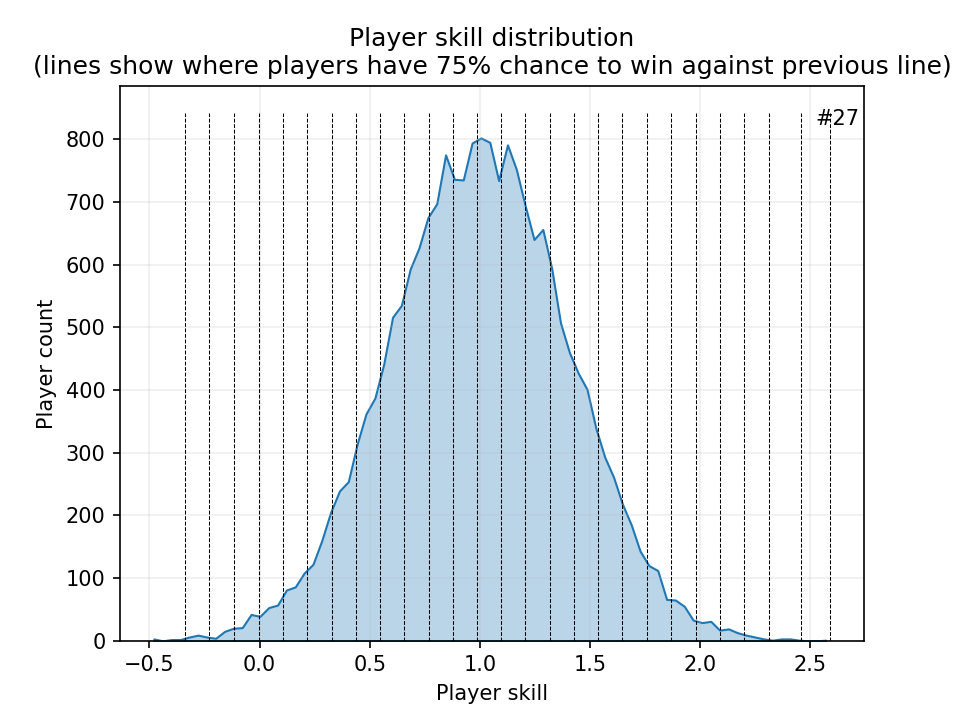
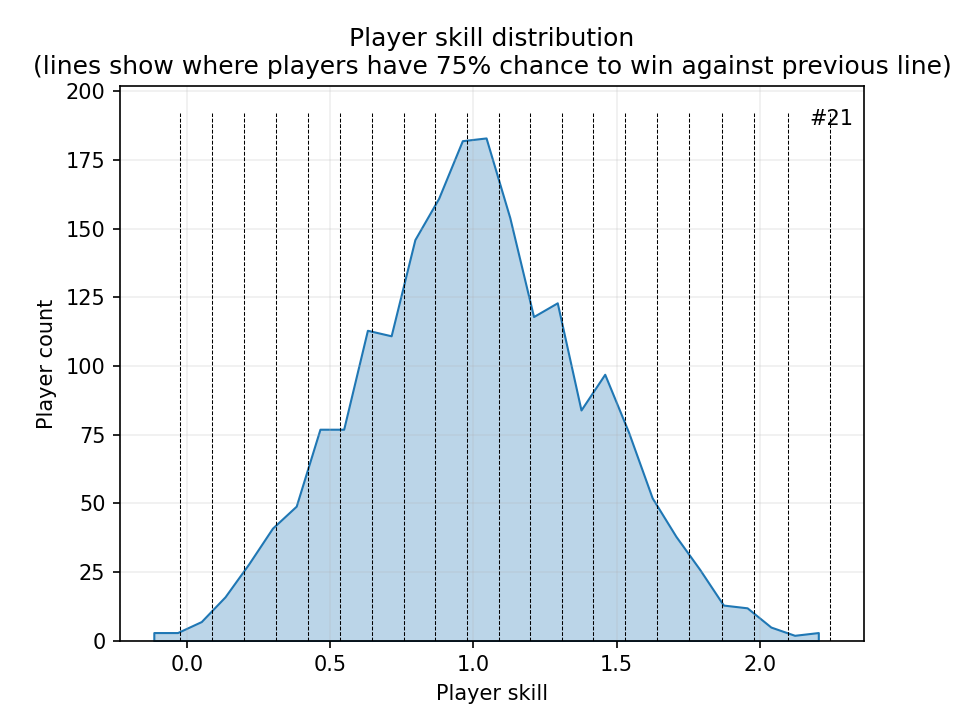
c-extension instead of json

diff --git a/sim.cpp b/sim.cpp
@@ -1,0 +1,121 @@
+#define PY_SSIZE_T_CLEAN
+#include <Python.h>
+#include "main.cpp" // dirty direct include
+
+static char module_docstring[] =
+    "Module simulating various strategies for matchmaking";
+
+// Declare first functions
+static PyObject *run_simulation(PyObject *self, PyObject *args);
+
+/* Module methods (how it's called for python | how it's called here | arg-type | docstring) */
+static PyMethodDef module_methods[] = {
+    {"run_simulation", run_simulation, METH_VARARGS, "Runs a simulation with `players` and `iterations`"},
+    {NULL, NULL, 0, NULL} // Last needs to be this
+};
+
+/*
+METH_VARARGS - typical
+METH_KEYWORDS - also keywords
+METH_NOARGS  - no arguments
+*/
+
+/* Initialize the module. Use to correct module name: psimulation here*/
+PyMODINIT_FUNC PyInit_psimulation(void)
+{
+    static struct PyModuleDef moduledef = {
+        PyModuleDef_HEAD_INIT,
+        "psimulation",
+        module_docstring,
+        -1,
+        module_methods,
+        NULL,
+        NULL,
+        NULL,
+        NULL};
+
+    return PyModule_Create(&moduledef);
+}
+
+// Helper function
+// Creares a dictionary of all player data
+static PyObject *get_player_data(const Player &p)
+{
+    PyObject *opponent_history = PyList_New(0);
+    PyObject *mmr_history = PyList_New(0);
+    PyObject *predicted_chances = PyList_New(0);
+
+    for (int i = 0; i < p.opponent_history.size(); i++)
+    {
+        PyList_Append(opponent_history, Py_BuildValue("d", p.opponent_history[i]));
+        PyList_Append(mmr_history, Py_BuildValue("d", p.mmr_history[i]));
+        PyList_Append(predicted_chances, Py_BuildValue("d", p.predicted_chances[i]));
+    }
+    return Py_BuildValue("{sdsdsOsOsO}", "skill", p.skill, "mmr", p.mmr, "opponent_history", opponent_history, "mmr_history", mmr_history, "predicted_chances", predicted_chances);
+}
+
+// Runs simulation and returns its data
+static PyObject *run_simulation(PyObject *self, PyObject *args)
+{
+    int iterations, players;
+    if (!PyArg_ParseTuple(args, "ii", &players, &iterations))
+        return NULL;
+
+    // Run simulation
+    std::vector<Player> player_data = run_sim(players, iterations);
+
+    // Prepare data to be send away
+    PyObject *Data = PyList_New(0);
+    for (const Player &p : player_data)
+    {
+        PyList_Append(Data, Py_BuildValue("O", get_player_data(p)));
+    }
+    return Data;
+}
+
+// Now that all mess is initialized, lets look at actual functions
+
+/* Python type parsing:
+
+c   char            A Python string of length 1 becomes a C char.
+d   double          A Python float becomes a C double.
+f   float           A Python float becomes a C float.
+i   int             A Python int becomes a C int.
+l   long            A Python int becomes a C long.
+L   long long       A Python int becomes a C long long
+O   PyObject*       Gets non-NULL borrowed reference to Python argument.
+s   char*           Python string without embedded nulls to C char*.
+s#  char*+int       Any Python string to C address and length.
+t#  char*+int       Read-only single-segment buffer to C address and length.
+u   Py_UNICODE*     Python Unicode without embedded nulls to C.
+u#  Py_UNICODE*+int     Any Python Unicode C address and length.
+w#  char*+int       Read/write single-segment buffer to C address and length.
+z   char*           Like s, also accepts None (sets C char* to NULL).
+z#  char*+int       Like s#, also accepts None (sets C char* to NULL).
+(...)               as per ...  A Python sequence is treated as one argument per item.
+|                   The following arguments are optional.
+:                   Format end, followed by function name for error messages.
+;                   Format end, followed by entire error message text.
+
+Python type returning:
+
+c   char            A C char becomes a Python string of length 1.
+d   double          A C double becomes a Python float.
+f   float           A C float becomes a Python float.
+i   int             A C int becomes a Python int.
+l   long            A C long becomes a Python int.
+N   PyObject*       Passes a Python object and steals a reference.
+O   PyObject*       Passes a Python object and INCREFs it as normal.
+O&  convert+void*   Arbitrary conversion
+s   char*           C 0-terminated char* to Python string, or NULL to None.
+s#  char*+int       C char* and length to Python string, or NULL to None.
+u   Py_UNICODE*     C-wide, null-terminated string to Python Unicode, or NULL to None.
+u#  Py_UNICODE*+int C-wide string and length to Python Unicode, or NULL to None.
+w#  char*+int       Read/write single-segment buffer to C address and length.
+z   char*           Like s, also accepts None (sets C char* to NULL).
+z#  char*+int       Like s#, also accepts None (sets C char* to NULL).
+(...)               as per ...  Builds Python tuple from C values.
+[...]               as per ...  Builds Python list from C values.
+{...}               as per ...  Builds Python dictionary from C values, alternating keys and values.
+
+*/

diff --git a/main.cpp b/main.cpp
@@ -84,7 +84,7 @@ class ELO_strategy : public MatchmakingStrategy
     // ** TEST WITH fixed K
     // ** TEST WITH K(player.mmr)
     // ** TRY CHANGING So diff in chances is more aggressive (more points if chances are skewed more?)
-  
+
     const double K = 32;
 
 public:
@@ -114,9 +114,8 @@ public:
         winner.mmr += K * El;
         loser.mmr -= K * El;
 
-        
         double diff = Ew - actual_chances;
-        chance_differences.push_back(diff*diff);
+        chance_differences.push_back(diff * diff);
     }
 };
 
@@ -233,24 +232,19 @@ public:
 };
 
 // Saves player data into a json file for additional analysis
+// Extremely slow to create a string or write (e.g 250MB). C-extension for Python is much faster.
 void save_player_data(const std::vector<Player> &players)
 {
     std::string s = "[\n";
 
     // Get player data
-    auto t1 = std::chrono::high_resolution_clock::now();
-
     for (const Player &p : players)
     {
         s += str("{\"skill\": ", p.skill, ", \"mmr\": ", p.mmr, ", \"opponent_history\": ", str(p.opponent_history));
-        s += str(", \"mmr_history\": ", str(p.mmr_history),", \"predicted_chances\": ", str(p.predicted_chances), "},\n");
+        s += str(", \"mmr_history\": ", str(p.mmr_history), ", \"predicted_chances\": ", str(p.predicted_chances), "},\n");
     }
     s.erase(s.end() - 2, s.end());
     s += "\n]";
-
-    auto t2 = std::chrono::high_resolution_clock::now();
-    std::chrono::duration<double, std::milli> ms_double = t2 - t1;
-    print("String created", ms_double.count(), "ms");
 
     // Save data
     std::ofstream myfile("data.json");
@@ -265,42 +259,14 @@ void save_player_data(const std::vector<Player> &players)
     }
 }
 
-int main()
+std::vector<Player> run_sim(int players, int iterations)
 {
     ELO_strategy strategy;
     Simulation simulation(strategy);
-    simulation.add_players(20000);
-    simulation.play_games(5000000);
-
-    double inaccuracy = simulation.get_inaccuracy();
-    print("Inaccuracy:", inaccuracy);
-    /*
-    Naive 200-100000 (players, games)
-    limit = 1*offset → Inaccuracy: 6.00
-    limit = 2*offset → Inaccuracy: 6.67
-    limit = 5*offset → Inaccuracy: 8.6
-    limit = 10*offset → Inaccuracy: 12
-    limit = 100*offset → Inaccuracy: 60
-
-    ELO 200-100000
-    K       Opponents       Inaccuracy
-    4       99              19.2
-    8       85              12.5
-    16      75              9.0
-    32      69.4            7.5
-    64      67.4            6.71
-    128     66.6            6.17
-
-    */
-
-    // Let's try analysis in Python
-
-    save_player_data(simulation.players);
-    system("python analyse.py");
-
-    double total = 0;
-    for (const double &i : chance_differences) {
-        total += i;
-    }
-    print("sum of chance_differences^2:",total);
+    simulation.add_players(players);
+    simulation.play_games(iterations);
+    // double inaccuracy = simulation.get_inaccuracy();
+    // print("Inaccuracy:", inaccuracy);
+    // system("python analyse.py");
+    return simulation.players;
 }

diff --git a/analyse.py b/analyse.py
@@ -1,14 +1,18 @@
-import json
 import matplotlib.pyplot as plt
-from numpy import right_shift
 import seaborn as sns
 import statistics
 import math
+import time
 
-with open("data.json", 'r') as f:
-    data = json.load(f)
+import psimulation
 
-    ### PLOTTING
+### RUN SIMULATION
+start = time.time()
+data = psimulation.run_simulation(2000, 10000000)
+print(f"Simulation finished in {time.time()-start:.3f} seconds")
+start = time.time()
+
+### PLOTTING
 plt.rcParams['figure.dpi'] = 150
 
 
@@ -229,3 +233,4 @@ def plot_other():
 
 
 plot_other()
+print(f"Plotting finished in {time.time()-start:.3f} seconds")

diff --git a/mutils.h b/mutils.h
@@ -5,6 +5,7 @@
 #include <string>
 #include <vector>
 #include <fstream>
+#include <chrono>
 
 // Functions for creating a string from multiple variables and priting multiple variables
 // Doesn't work on arrays correctly (as they decay to pointers when passed to a function).
@@ -141,3 +142,13 @@ void log(A a, std::string filename = "log.txt")
         std::cout << "Can't save to the file. Won't open.\n";
     }
 }
+
+class Timeit
+{
+    std::chrono::high_resolution_clock::time_point start;
+
+public:
+    Timeit();
+    void print();
+    double ms();
+};

diff --git a/mutils.cpp b/mutils.cpp
@@ -1,0 +1,18 @@
+#include "mutils.h"
+
+Timeit::Timeit()
+{
+    Timeit::start = std::chrono::high_resolution_clock::now();
+}
+
+void Timeit::print()
+{
+    std::chrono::duration<double, std::milli> ms_double = std::chrono::high_resolution_clock::now() - Timeit::start;
+    std::cout << "Elapsed time: " << ms_double.count() << " ms\n";
+}
+
+double Timeit::ms()
+{
+    std::chrono::duration<double, std::milli> ms_double = std::chrono::high_resolution_clock::now() - Timeit::start;
+    return ms_double.count();
+}

diff --git a/setup.py b/setup.py
@@ -1,0 +1,9 @@
+from distutils.core import setup, Extension
+
+setup(
+    name='psimulation',
+    version='1.0',
+    ext_modules=[
+        Extension("psimulation", ["sim.cpp", "mutils.cpp"])
+    ],
+)
